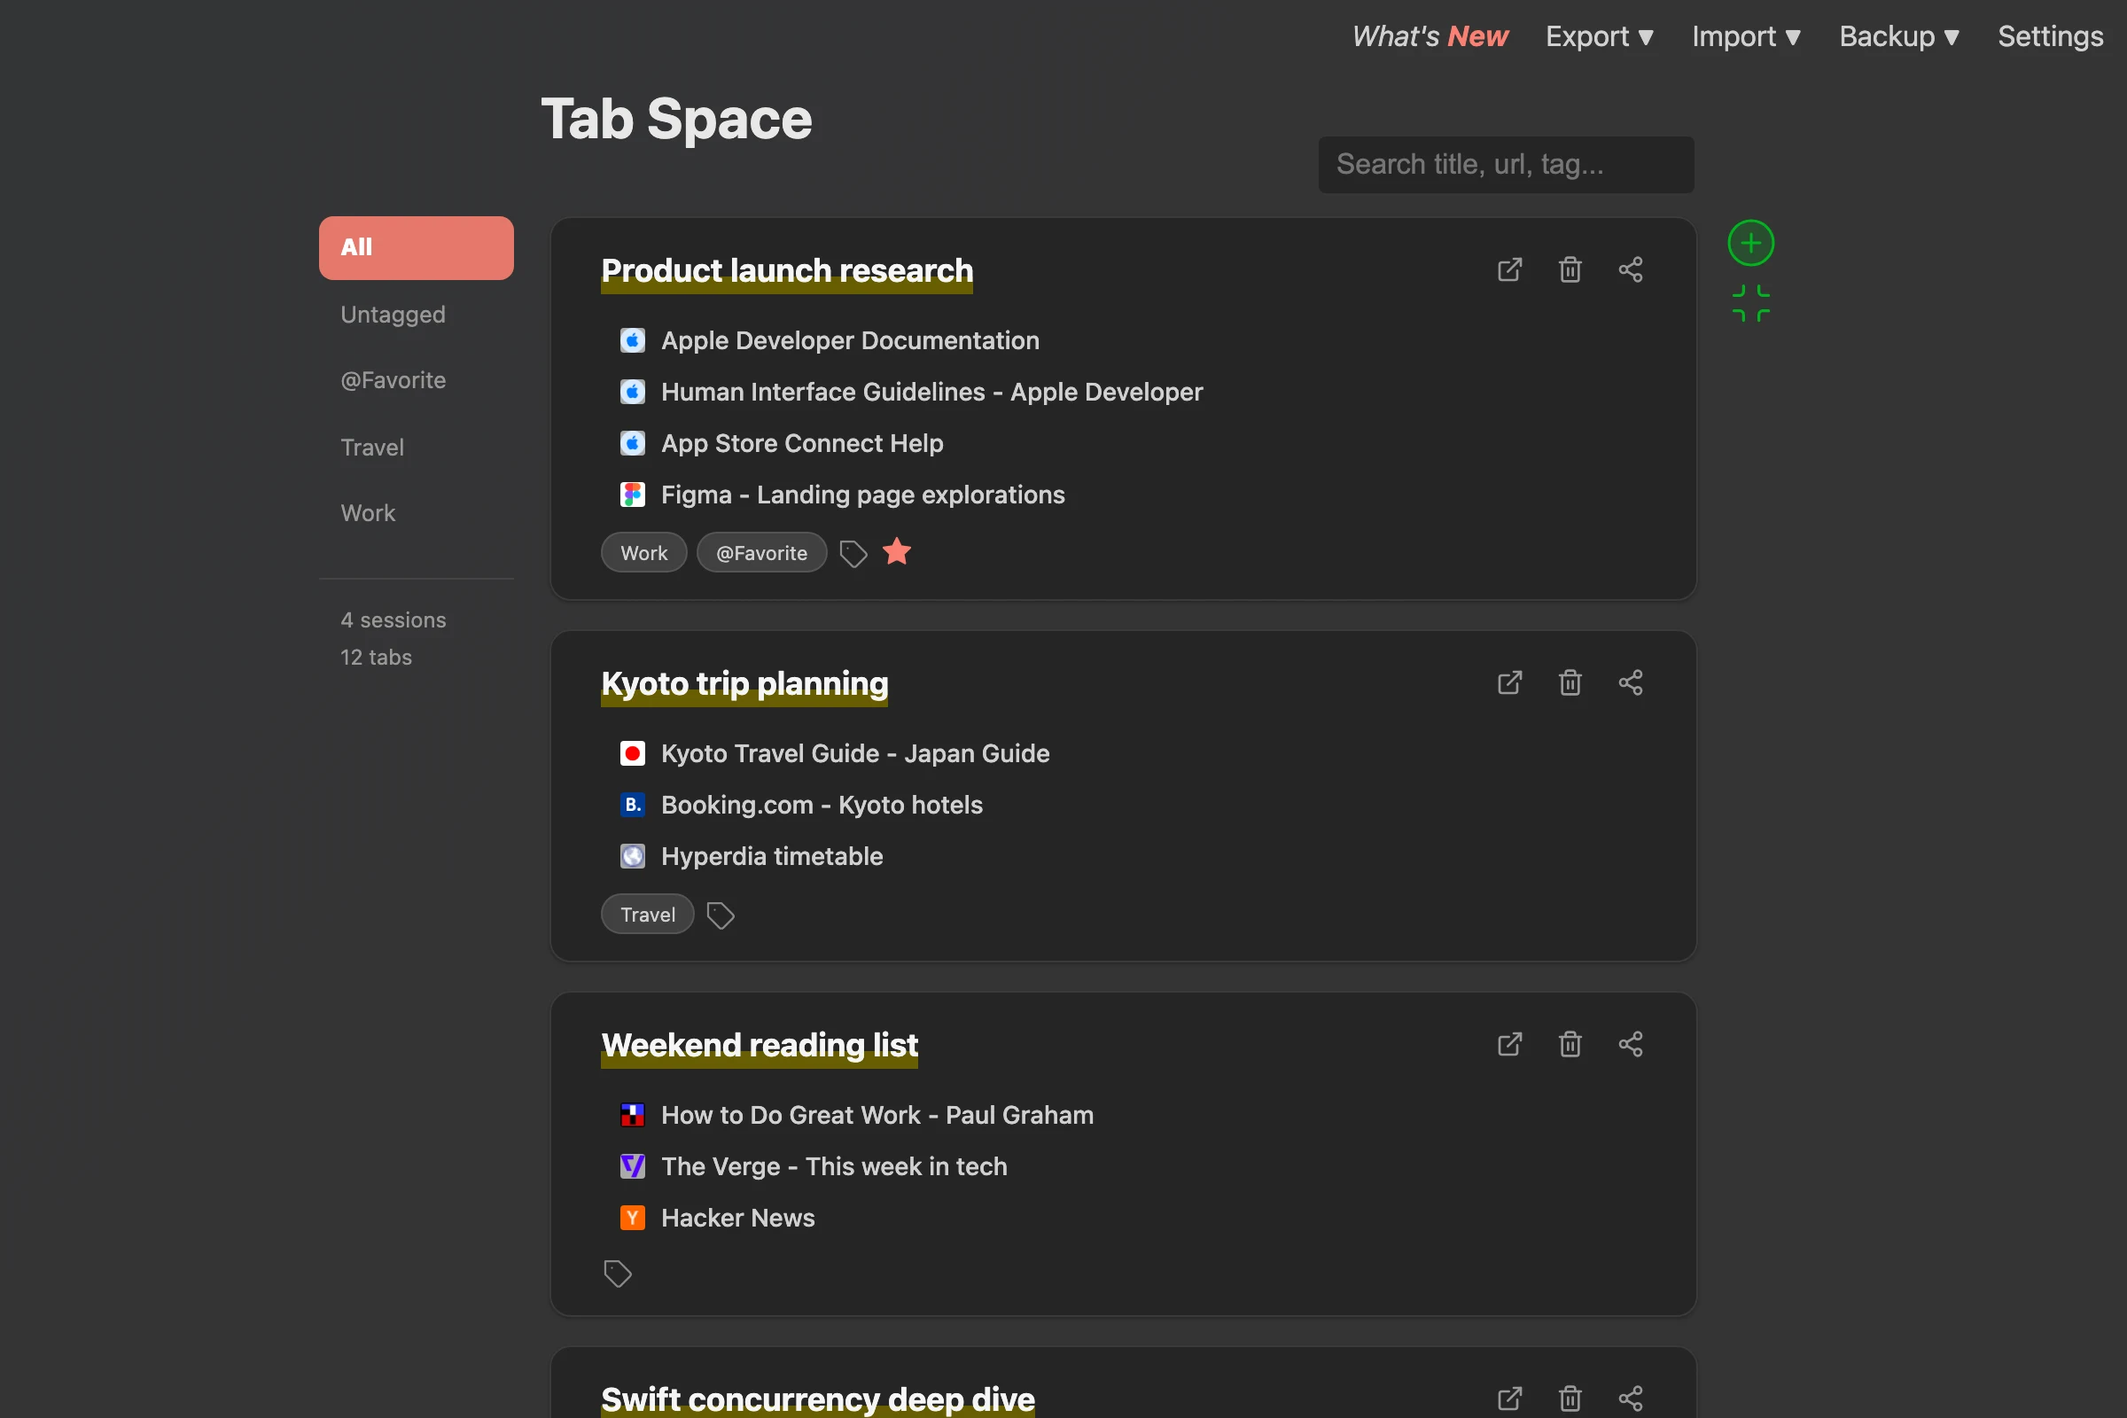
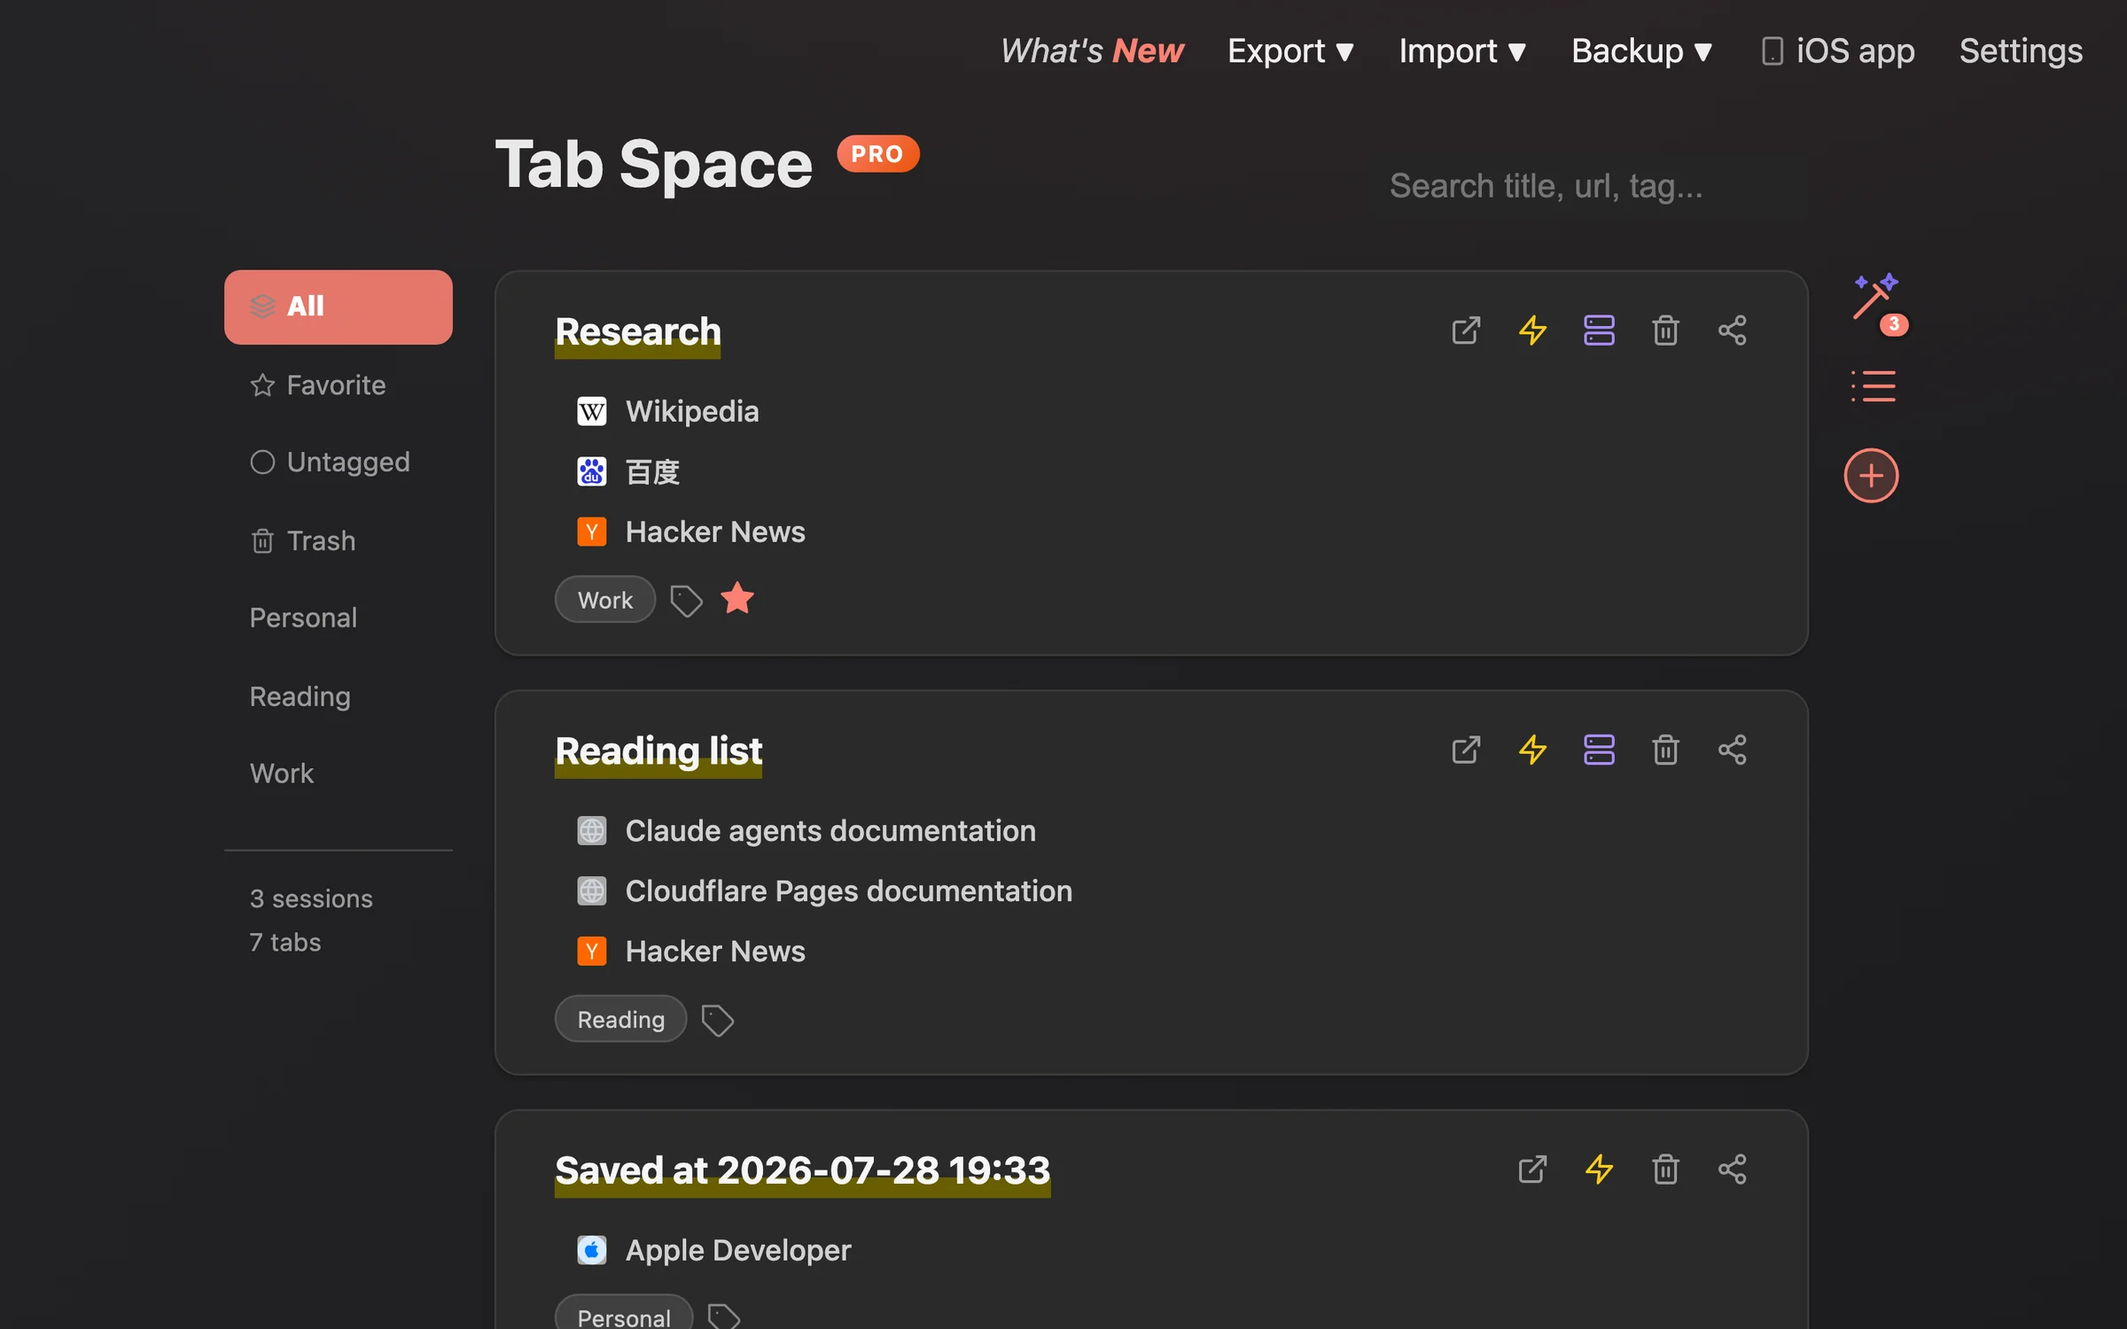
Refresh site screenshots and mark 4.0 as not yet released
- Replace the dashboard showcase images with captures from the new macOS
  marketing pipeline, and add an AI row so the headline 4.0 feature has a
  visual. The boxes were 3:2 and the new captures are 16:10, so the width and
  height attributes move to 1200x750.
- Say plainly that 4.0 is coming soon and not released: a callout above the
  pricing grid, a note on the AI showcase, and corrections in the multi-browser
  feature card, the hero subtitle, both FAQ answers, and the FAQPage structured
  data, which previously described Pro 4.0 in the present tense.
- Label multi-browser support as beta in the feature card, the Pro plan list,
  the FAQ, the structured data, and at the top of the setup guide, which now
  states its steps cannot be completed until 4.0 ships.
- Pro annual price is $17.99, not $19.99.

Applied to both index.html and index-zh.html.

diff --git a/index.html b/index.html
@@ -72,7 +72,7 @@
         "name": "What is the difference between Plus and Pro?",
         "acceptedAnswer": {
           "@type": "Answer",
-          "text": "Free and Plus each include 5 AI requests per week. Plus is a one-time purchase for unlimited sessions and all core features. Pro includes Plus, makes AI organizing unlimited, adds multi-browser support for Safari, Chrome, Microsoft Edge, and Firefox, and includes future Pro features."
+          "text": "These plans arrive with version 4.0, which is coming soon and not yet released. Free and Plus each include 5 AI requests per week. Plus is a one-time purchase for unlimited sessions and all core features. Pro includes Plus, makes AI organizing unlimited, adds multi-browser support in beta for Safari, Chrome, Microsoft Edge, and Firefox, and includes future Pro features."
         }
       },
       {
@@ -104,7 +104,7 @@
         "name": "Which browsers does Tab Space support?",
         "acceptedAnswer": {
           "@type": "Answer",
-          "text": "Tab Space Pro 4.0 supports Safari, Chrome, Microsoft Edge, and Firefox 121 or later on Mac."
+          "text": "Multi-browser support is a beta feature of Tab Space Pro 4.0, which is coming soon and not yet released. It supports Safari, Chrome, Microsoft Edge, and Firefox 121 or later on Mac."
         }
       },
       {
@@ -182,7 +182,8 @@
             </a>
           </div>
 
-          <p class="subtitle">Safari on Mac, iPhone &amp; iPad · Chrome, Edge &amp; Firefox 121+ on Mac · macOS 11+ · iOS 16+</p>
+          <p class="subtitle">Safari on Mac, iPhone &amp; iPad · macOS 11+ · iOS 16+<br>
+            <span class="subtitle-note">Chrome, Edge &amp; Firefox 121+ on Mac — beta, coming in 4.0</span></p>
         </div>
       </article>
 
@@ -287,10 +288,11 @@
               <path d="M9 9h6v6H9z" />
             </svg>
           </div>
-          <h3>Pro Multi-Browser Support</h3>
+          <h3>Multi-Browser Support <span class="badge-beta">Beta</span></h3>
           <p>Use the same sessions in Safari, Chrome, Microsoft Edge, and Firefox. A one-time local pairing keeps
-            companion browsers connected to the Mac app. This feature is included with Pro.
-            <a href="multi-browser.html">Set it up →</a></p>
+            companion browsers connected to the Mac app. Included with Pro, in beta, and
+            <strong>coming in version 4.0 — not yet released.</strong>
+            <a href="multi-browser.html">See how it will work →</a></p>
         </div>
       </div>
     </div>
@@ -301,6 +303,7 @@
     <div class="container">
       <h2>Choose what fits your Mac</h2>
       <p class="pricing-lede">Free and Plus include 5 AI requests each week. Subscribe to Pro for unlimited AI, multi-browser support, and every new Pro feature.</p>
+      <p class="pricing-note"><strong>Pricing below applies to version 4.0, which is coming soon and not yet released.</strong> The current Mac app remains a one-time purchase, and everyone who bought it before 4.0 keeps permanent Plus at no charge.</p>
       <div class="pricing-grid">
         <article class="pricing-card">
           <h3>Free</h3>
@@ -327,11 +330,11 @@
           <span class="pricing-badge">Recommended</span>
           <h3>Pro</h3>
           <p class="pricing-price">$1.99 <small>/ month</small></p>
-          <p class="pricing-period">or $19.99/year with a 7-day free trial</p>
+          <p class="pricing-period">or $17.99/year with a 7-day free trial</p>
           <ul>
             <li>Everything in Plus</li>
             <li>Unlimited AI-powered organizing</li>
-            <li>Safari, Chrome, Microsoft Edge, and Firefox support</li>
+            <li>Safari, Chrome, Microsoft Edge, and Firefox support (beta)</li>
             <li>Future Pro features as they arrive</li>
           </ul>
         </article>
@@ -345,7 +348,7 @@
     <div class="container">
       <div class="showcase-row">
         <div class="showcase-media">
-          <img src="assets/img/dashboard-light.webp" width="1200" height="800"
+          <img src="assets/img/dashboard-light.webp" width="1200" height="750"
             alt="Tab Space dashboard with saved sessions, tags, and search" loading="lazy">
         </div>
         <div class="showcase-copy">
@@ -357,13 +360,26 @@
 
       <div class="showcase-row reverse">
         <div class="showcase-media">
-          <img src="assets/img/dashboard-dark.webp" width="1200" height="800"
-            alt="Tab Space dashboard in dark mode with backup and export menus" loading="lazy">
+          <img src="assets/img/dashboard-dark.webp" width="1200" height="750"
+            alt="Tab Space dashboard in dark mode with saved sessions" loading="lazy">
         </div>
         <div class="showcase-copy">
           <h2>Backed up. Exported. Never lost.</h2>
           <p>Automatic backups run on a smart hourly-to-monthly schedule, and any session exports to Text,
             Markdown, HTML, or JSON. Dark mode included — it follows your system, day and night.</p>
+        </div>
+      </div>
+
+      <div class="showcase-row">
+        <div class="showcase-media">
+          <img src="assets/img/dashboard-ai.webp" width="1200" height="612"
+            alt="Tab Space naming a saved session and adding tags automatically" loading="lazy">
+        </div>
+        <div class="showcase-copy">
+          <h2>Coming in 4.0: let AI name and tag it</h2>
+          <p>Save a pile of tabs and Tab Space can title the session and add the tags that fit, so you can find it
+            later without naming anything yourself. Free and Plus include 5 AI requests each week; Pro removes the
+            limit. <strong>Version 4.0 has not been released yet.</strong></p>
         </div>
       </div>
 
@@ -452,7 +468,7 @@
         </details>
         <details>
           <summary>What is the difference between Plus and Pro?</summary>
-          <p>Free and Plus both include 5 AI requests each week. Plus is a $9.99 one-time purchase for unlimited sessions and all core features. Pro includes Plus, makes AI organizing unlimited, adds multi-browser support for Safari, Chrome, Microsoft Edge, and Firefox, and includes future Pro features for $1.99 monthly or $19.99 annually. The annual plan includes a 7-day free trial.</p>
+          <p>Free and Plus both include 5 AI requests each week. Plus is a $9.99 one-time purchase for unlimited sessions and all core features. Pro includes Plus, makes AI organizing unlimited, adds multi-browser support (beta) for Safari, Chrome, Microsoft Edge, and Firefox, and includes future Pro features for $1.99 monthly or $17.99 annually. The annual plan includes a 7-day free trial. These plans arrive with version 4.0, which has not been released yet.</p>
         </details>
         <details>
           <summary>Will my membership work on iPhone and iPad?</summary>
@@ -470,7 +486,7 @@
         </details>
         <details>
           <summary>Which browsers does Tab Space support?</summary>
-          <p>Tab Space Pro 4.0 supports Safari, Chrome, Microsoft Edge, and Firefox 121 or later on Mac. Sessions stay in
+          <p>Multi-browser support is a beta feature of Tab Space Pro 4.0, which is coming soon and not yet released. It covers Safari, Chrome, Microsoft Edge, and Firefox 121 or later on Mac. Sessions stay in
             the native Mac app no matter which browser saved them. See the
             <a href="multi-browser.html">multi-browser setup guide</a>.</p>
         </details>

diff --git a/index-zh.html b/index-zh.html
@@ -92,7 +92,8 @@
             </a>
           </div>
 
-          <p class="subtitle">Mac、iPhone 和 iPad 支持 Safari · Mac 支持 Chrome、Edge 和 Firefox 121+ · macOS 11+ · iOS 16+</p>
+          <p class="subtitle">Mac、iPhone 和 iPad 支持 Safari · macOS 11+ · iOS 16+<br>
+            <span class="subtitle-note">Mac 上的 Chrome、Edge 和 Firefox 121+ —— Beta，随 4.0 推出</span></p>
         </div>
       </article>
 
@@ -195,8 +196,8 @@
               <path d="M9 9h6v6H9z" />
             </svg>
           </div>
-          <h3>Pro 多浏览器支持</h3>
-          <p>同一套会话可在 Safari、Chrome、Microsoft Edge 和 Firefox 中使用。配套浏览器只需一次本地配对即可连接 Mac App。此功能包含在 Pro 中。
+          <h3>多浏览器支持 <span class="badge-beta">Beta</span></h3>
+          <p>同一套会话可在 Safari、Chrome、Microsoft Edge 和 Firefox 中使用。配套浏览器只需一次本地配对即可连接 Mac App。此功能包含在 Pro 中，目前为 Beta，<strong>将随 4.0 版本推出，尚未发布。</strong>
             <a href="multi-browser.html#zh">查看设置指南 →</a></p>
         </div>
       </div>
@@ -208,6 +209,7 @@
     <div class="container">
       <h2>选择适合你的 Mac 方案</h2>
       <p class="pricing-lede">Free 和 Plus 每周包含 5 次 AI 请求；订阅 Pro 可无限使用 AI、获得多浏览器支持及之后推出的 Pro 新功能。</p>
+      <p class="pricing-note"><strong>以下定价适用于即将推出的 4.0 版本，该版本尚未发布。</strong>当前 Mac App 仍为一次性购买；在 4.0 之前购买过的用户将免费获得永久 Plus。</p>
       <div class="pricing-grid">
         <article class="pricing-card">
           <h3>Free</h3>
@@ -234,11 +236,11 @@
           <span class="pricing-badge">推荐</span>
           <h3>Pro</h3>
           <p class="pricing-price">$1.99 <small>/ 月</small></p>
-          <p class="pricing-period">或 $19.99/年，年付免费试用 7 天</p>
+          <p class="pricing-period">或 $17.99/年，年付免费试用 7 天</p>
           <ul>
             <li>包含 Plus 全部权益</li>
             <li>无限使用 AI 智能整理</li>
-            <li>支持 Safari、Chrome、Microsoft Edge 和 Firefox</li>
+            <li>支持 Safari、Chrome、Microsoft Edge 和 Firefox（Beta）</li>
             <li>之后推出的 Pro 新功能</li>
           </ul>
         </article>
@@ -252,7 +254,7 @@
     <div class="container">
       <div class="showcase-row">
         <div class="showcase-media">
-          <img src="assets/img/dashboard-light.webp" width="1200" height="800"
+          <img src="assets/img/dashboard-light.webp" width="1200" height="750"
             alt="Tab Space 仪表盘：保存的会话、标签和搜索" loading="lazy">
         </div>
         <div class="showcase-copy">
@@ -263,12 +265,23 @@
 
       <div class="showcase-row reverse">
         <div class="showcase-media">
-          <img src="assets/img/dashboard-dark.webp" width="1200" height="800"
-            alt="Tab Space 深色模式仪表盘：备份与导出菜单" loading="lazy">
+          <img src="assets/img/dashboard-dark.webp" width="1200" height="750"
+            alt="Tab Space 深色模式仪表盘：保存的会话" loading="lazy">
         </div>
         <div class="showcase-copy">
           <h2>有备份，可导出，不丢失。</h2>
           <p>自动备份按小时到月的智能计划运行，任何会话都能导出为纯文本、Markdown、HTML 或 JSON。深色模式随系统自动切换，昼夜皆宜。</p>
+        </div>
+      </div>
+
+      <div class="showcase-row">
+        <div class="showcase-media">
+          <img src="assets/img/dashboard-ai.webp" width="1200" height="612"
+            alt="Tab Space 自动为保存的会话命名并添加标签" loading="lazy">
+        </div>
+        <div class="showcase-copy">
+          <h2>4.0 即将推出：让 AI 命名和分类</h2>
+          <p>保存一堆标签页后，Tab Space 可以自动拟好会话标题、补上合适的标签，你不用自己起名也能在之后找回。Free 和 Plus 每周包含 5 次 AI 请求，Pro 不限次数。<strong>4.0 版本尚未发布。</strong></p>
         </div>
       </div>
 
@@ -352,7 +365,7 @@
         </details>
         <details>
           <summary>Plus 和 Pro 有什么区别？</summary>
-          <p>Free 和 Plus 都包含每周 5 次 AI 请求。Plus 是 $9.99 一次性购买，永久解锁无限会话和全部基础功能。Pro 包含 Plus，AI 不限次数，并支持 Safari、Chrome、Microsoft Edge 和 Firefox，以及未来 Pro 功能，月付 $1.99 或年付 $19.99；年付含 7 天免费试用。</p>
+          <p>Free 和 Plus 都包含每周 5 次 AI 请求。Plus 是 $9.99 一次性购买，永久解锁无限会话和全部基础功能。Pro 包含 Plus，AI 不限次数，并支持 Safari、Chrome、Microsoft Edge 和 Firefox（Beta），以及未来 Pro 功能，月付 $1.99 或年付 $17.99；年付含 7 天免费试用。以上方案随 4.0 版本推出，该版本尚未发布。</p>
         </details>
         <details>
           <summary>会员能在 iPhone 和 iPad 上使用吗？</summary>
@@ -368,7 +381,7 @@
         </details>
         <details>
           <summary>Tab Space 支持哪些浏览器？</summary>
-          <p>Tab Space Pro 4.0 在 Mac 上支持 Safari、Chrome、Microsoft Edge 和 Firefox 121 或更新版本。无论由哪个浏览器保存，会话都留在原生 Mac App 中。
+          <p>多浏览器支持是 Tab Space Pro 4.0 的 Beta 功能，该版本即将推出、尚未发布。它在 Mac 上支持 Safari、Chrome、Microsoft Edge 和 Firefox 121 或更新版本。无论由哪个浏览器保存，会话都留在原生 Mac App 中。
             详见<a href="multi-browser.html#zh">多浏览器设置指南</a>。</p>
         </details>
         <details>

diff --git a/multi-browser.html b/multi-browser.html
@@ -97,6 +97,11 @@
         Companion browsers connect to the Mac app once, with a local pairing code. Multi-browser support is
         included with <a href="index.html#pricing">Tab Space Pro</a>.
       </p>
+      <p class="pricing-note">
+        <strong>Multi-browser support is a beta feature and ships with Tab Space 4.0, which is coming soon and has
+        not been released yet.</strong> This guide describes how it will work so you can plan ahead; the steps below
+        cannot be completed until 4.0 is available.
+      </p>
 
       <h2>What you need</h2>
       <ul>
@@ -201,6 +206,10 @@
       <p>
         配套浏览器只需使用本地配对码连接一次。多浏览器支持包含在
         <a href="index-zh.html#pricing">Tab Space Pro</a> 中。
+      </p>
+
+      <p class="pricing-note">
+        <strong>多浏览器支持为 Beta 功能，随 Tab Space 4.0 推出；该版本即将发布，目前尚未上线。</strong>本指南说明它将如何工作，方便你提前了解；在 4.0 发布前，下面的步骤还无法完成。
       </p>
 
       <h2>准备工作</h2>

diff --git a/assets/css/main.css b/assets/css/main.css
@@ -531,6 +531,38 @@ header {
     font-size: 0.875rem;
 }
 
+/* Notice that a plan or feature is not shipping yet, so it reads as a caveat
+   rather than as ordinary fine print. */
+.pricing-note {
+    max-width: 46rem;
+    margin: 0 auto 8px;
+    padding: 12px 18px;
+    border: 1px solid var(--color-brand-tint);
+    border-radius: 12px;
+    background: var(--color-brand-tint);
+    color: var(--color-text-secondary);
+    line-height: 1.55;
+}
+
+/* "Beta" chip next to a feature heading. */
+.badge-beta {
+    display: inline-block;
+    margin-left: 8px;
+    padding: 2px 9px;
+    border-radius: 999px;
+    background: var(--color-brand-tint);
+    color: var(--color-brand-strong);
+    font-size: 0.6875rem;
+    font-weight: 700;
+    letter-spacing: 0.04em;
+    text-transform: uppercase;
+    vertical-align: middle;
+}
+
+.subtitle-note {
+    color: var(--color-brand-strong);
+}
+
 .pricing-card ul {
     margin: 24px 0 0;
     padding-left: 1.2rem;
